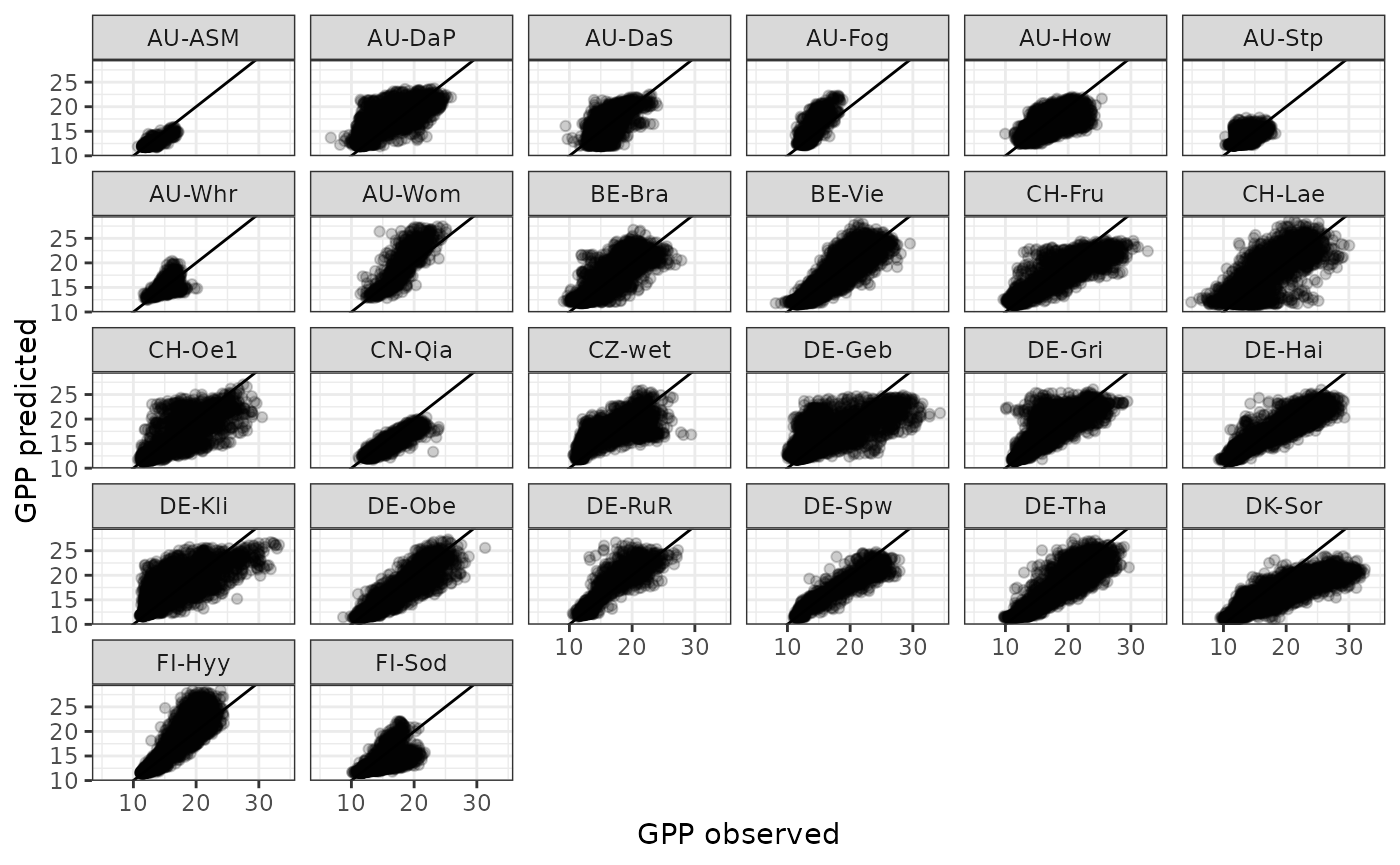
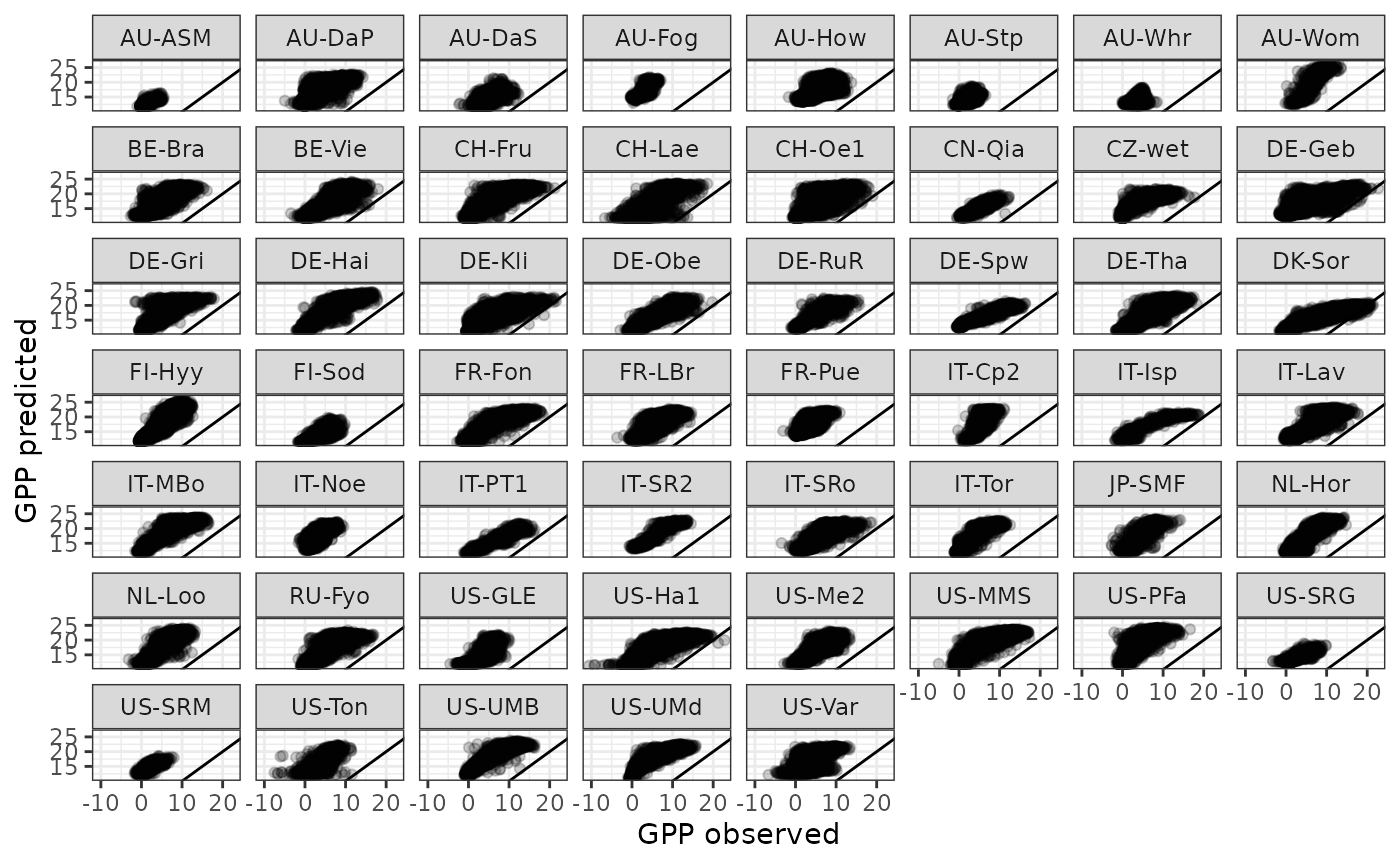
Deploying to gh-pages from @ khufkens/torching_series@e23b7008979bf010fc6eb65e037ba8ff3534601a 🚀

diff --git a/articles/01_results.html b/articles/01_results.html
@@ -95,43 +95,50 @@ Hufkens</h4>
     
 <p>Summary results / stats…</p>
 <div class="sourceCode" id="cb1"><pre class="downlit sourceCode r">
-<code class="sourceCode R"><span><span class="co"># read in the data</span></span>
+<code class="sourceCode R"><span><span class="co"># read in the modelled data</span></span>
 <span><span class="va">df</span> <span class="op">&lt;-</span> <span class="fu"><a href="https://rdrr.io/r/base/readRDS.html" class="external-link">readRDS</a></span><span class="op">(</span><span class="fu">here</span><span class="fu">::</span><span class="fu"><a href="https://here.r-lib.org//reference/here.html" class="external-link">here</a></span><span class="op">(</span><span class="st">"data/leave_site_out_output.rds"</span><span class="op">)</span><span class="op">)</span></span>
 <span></span>
-<span><span class="co"># R squared and RMSE global</span></span>
+<span><span class="co"># read in the original data</span></span>
+<span><span class="va">orig</span> <span class="op">&lt;-</span> <span class="fu"><a href="https://rdrr.io/r/base/readRDS.html" class="external-link">readRDS</a></span><span class="op">(</span><span class="fu">here</span><span class="fu">::</span><span class="fu"><a href="https://here.r-lib.org//reference/here.html" class="external-link">here</a></span><span class="op">(</span><span class="st">"data/df_imputed.rds"</span><span class="op">)</span><span class="op">)</span></span>
+<span></span>
+<span><span class="co"># join data</span></span>
+<span><span class="va">df</span> <span class="op">&lt;-</span> <span class="fu">left_join</span><span class="op">(</span><span class="va">df</span>, <span class="va">orig</span><span class="op">)</span></span></code></pre></div>
+<pre><code><span><span class="co">## Joining with `by = join_by(sitename, date)`</span></span></code></pre>
+<div class="sourceCode" id="cb3"><pre class="downlit sourceCode r">
+<code class="sourceCode R"><span><span class="co"># R squared and RMSE global</span></span>
 <span><span class="va">statistics_global</span> <span class="op">&lt;-</span> <span class="va">df</span> <span class="op">|&gt;</span></span>
 <span>  <span class="fu">summarize</span><span class="op">(</span></span>
-<span>    R2 <span class="op">=</span> <span class="fu"><a href="https://rdrr.io/r/base/summary.html" class="external-link">summary</a></span><span class="op">(</span><span class="fu"><a href="https://rdrr.io/r/stats/lm.html" class="external-link">lm</a></span><span class="op">(</span><span class="va">GPP_pred</span> <span class="op">~</span> <span class="va">GPP_obs</span><span class="op">)</span><span class="op">)</span><span class="op">$</span><span class="va">r.squared</span>,</span>
-<span>    RMSE <span class="op">=</span> <span class="fu"><a href="https://rdrr.io/r/base/MathFun.html" class="external-link">sqrt</a></span><span class="op">(</span><span class="fu"><a href="https://rdrr.io/r/base/mean.html" class="external-link">mean</a></span><span class="op">(</span><span class="op">(</span><span class="va">GPP_pred</span> <span class="op">-</span> <span class="va">GPP_obs</span><span class="op">)</span><span class="op">^</span><span class="fl">2</span><span class="op">)</span><span class="op">)</span></span>
+<span>    R2 <span class="op">=</span> <span class="fu"><a href="https://rdrr.io/r/base/summary.html" class="external-link">summary</a></span><span class="op">(</span><span class="fu"><a href="https://rdrr.io/r/stats/lm.html" class="external-link">lm</a></span><span class="op">(</span><span class="va">GPP_pred</span> <span class="op">~</span> <span class="va">GPP_NT_VUT_REF</span><span class="op">)</span><span class="op">)</span><span class="op">$</span><span class="va">r.squared</span>,</span>
+<span>    RMSE <span class="op">=</span> <span class="fu"><a href="https://rdrr.io/r/base/MathFun.html" class="external-link">sqrt</a></span><span class="op">(</span><span class="fu"><a href="https://rdrr.io/r/base/mean.html" class="external-link">mean</a></span><span class="op">(</span><span class="op">(</span><span class="va">GPP_pred</span> <span class="op">-</span> <span class="va">GPP_NT_VUT_REF</span><span class="op">)</span><span class="op">^</span><span class="fl">2</span><span class="op">)</span><span class="op">)</span></span>
 <span>  <span class="op">)</span></span>
 <span></span>
 <span><span class="fu"><a href="https://rdrr.io/r/base/print.html" class="external-link">print</a></span><span class="op">(</span><span class="va">statistics_global</span><span class="op">)</span></span></code></pre></div>
 <pre><code><span><span class="co">##          R2     RMSE</span></span>
-<span><span class="co">## 1 0.7289925 2.157175</span></span></code></pre>
-<div class="sourceCode" id="cb3"><pre class="downlit sourceCode r">
+<span><span class="co">## 1 0.7343552 11.87439</span></span></code></pre>
+<div class="sourceCode" id="cb5"><pre class="downlit sourceCode r">
 <code class="sourceCode R"><span><span class="co"># R squared and RMSE by site</span></span>
 <span><span class="va">statistics_sites</span> <span class="op">&lt;-</span> <span class="va">df</span> <span class="op">|&gt;</span></span>
 <span>  <span class="fu">group_by</span><span class="op">(</span><span class="va">sitename</span><span class="op">)</span> <span class="op">|&gt;</span></span>
 <span>  <span class="fu">summarize</span><span class="op">(</span></span>
-<span>    R2 <span class="op">=</span> <span class="fu"><a href="https://rdrr.io/r/base/summary.html" class="external-link">summary</a></span><span class="op">(</span><span class="fu"><a href="https://rdrr.io/r/stats/lm.html" class="external-link">lm</a></span><span class="op">(</span><span class="va">GPP_pred</span> <span class="op">~</span> <span class="va">GPP_obs</span><span class="op">)</span><span class="op">)</span><span class="op">$</span><span class="va">r.squared</span>,</span>
-<span>    RMSE <span class="op">=</span> <span class="fu"><a href="https://rdrr.io/r/base/MathFun.html" class="external-link">sqrt</a></span><span class="op">(</span><span class="fu"><a href="https://rdrr.io/r/base/mean.html" class="external-link">mean</a></span><span class="op">(</span><span class="op">(</span><span class="va">GPP_pred</span> <span class="op">-</span> <span class="va">GPP_obs</span><span class="op">)</span><span class="op">^</span><span class="fl">2</span><span class="op">)</span><span class="op">)</span></span>
+<span>    R2 <span class="op">=</span> <span class="fu"><a href="https://rdrr.io/r/base/summary.html" class="external-link">summary</a></span><span class="op">(</span><span class="fu"><a href="https://rdrr.io/r/stats/lm.html" class="external-link">lm</a></span><span class="op">(</span><span class="va">GPP_pred</span> <span class="op">~</span> <span class="va">GPP_NT_VUT_REF</span><span class="op">)</span><span class="op">)</span><span class="op">$</span><span class="va">r.squared</span>,</span>
+<span>    RMSE <span class="op">=</span> <span class="fu"><a href="https://rdrr.io/r/base/MathFun.html" class="external-link">sqrt</a></span><span class="op">(</span><span class="fu"><a href="https://rdrr.io/r/base/mean.html" class="external-link">mean</a></span><span class="op">(</span><span class="op">(</span><span class="va">GPP_pred</span> <span class="op">-</span> <span class="va">GPP_NT_VUT_REF</span><span class="op">)</span><span class="op">^</span><span class="fl">2</span><span class="op">)</span><span class="op">)</span></span>
 <span>  <span class="op">)</span></span>
 <span></span>
 <span><span class="fu"><a href="https://rdrr.io/r/base/print.html" class="external-link">print</a></span><span class="op">(</span><span class="va">statistics_sites</span><span class="op">)</span></span></code></pre></div>
-<pre><code><span><span class="co">## <span style="color: #949494;"># A tibble: 26 × 3</span></span></span>
-<span><span class="co">##    sitename    R2  RMSE</span></span>
-<span><span class="co">##    <span style="color: #949494; font-style: italic;">&lt;chr&gt;</span>    <span style="color: #949494; font-style: italic;">&lt;dbl&gt;</span> <span style="color: #949494; font-style: italic;">&lt;dbl&gt;</span></span></span>
-<span><span class="co">## <span style="color: #BCBCBC;"> 1</span> AU-ASM   0.737 0.634</span></span>
-<span><span class="co">## <span style="color: #BCBCBC;"> 2</span> AU-DaP   0.592 2.77 </span></span>
-<span><span class="co">## <span style="color: #BCBCBC;"> 3</span> AU-DaS   0.486 1.95 </span></span>
-<span><span class="co">## <span style="color: #BCBCBC;"> 4</span> AU-Fog   0.670 2.29 </span></span>
-<span><span class="co">## <span style="color: #BCBCBC;"> 5</span> AU-How   0.466 1.90 </span></span>
-<span><span class="co">## <span style="color: #BCBCBC;"> 6</span> AU-Stp   0.564 1.03 </span></span>
-<span><span class="co">## <span style="color: #BCBCBC;"> 7</span> AU-Whr   0.228 1.23 </span></span>
-<span><span class="co">## <span style="color: #BCBCBC;"> 8</span> AU-Wom   0.726 2.51 </span></span>
-<span><span class="co">## <span style="color: #BCBCBC;"> 9</span> BE-Bra   0.798 1.62 </span></span>
-<span><span class="co">## <span style="color: #BCBCBC;">10</span> BE-Vie   0.862 1.51 </span></span>
-<span><span class="co">## <span style="color: #949494;"># ℹ 16 more rows</span></span></span></code></pre>
+<pre><code><span><span class="co">## <span style="color: #949494;"># A tibble: 53 × 3</span></span></span>
+<span><span class="co">##    sitename     R2  RMSE</span></span>
+<span><span class="co">##    <span style="color: #949494; font-style: italic;">&lt;chr&gt;</span>     <span style="color: #949494; font-style: italic;">&lt;dbl&gt;</span> <span style="color: #949494; font-style: italic;">&lt;dbl&gt;</span></span></span>
+<span><span class="co">## <span style="color: #BCBCBC;"> 1</span> AU-ASM   0.624  11.5 </span></span>
+<span><span class="co">## <span style="color: #BCBCBC;"> 2</span> AU-DaP   0.681  12.9 </span></span>
+<span><span class="co">## <span style="color: #BCBCBC;"> 3</span> AU-DaS   0.528   9.86</span></span>
+<span><span class="co">## <span style="color: #BCBCBC;"> 4</span> AU-Fog   0.568  14.1 </span></span>
+<span><span class="co">## <span style="color: #BCBCBC;"> 5</span> AU-How   0.475  11.8 </span></span>
+<span><span class="co">## <span style="color: #BCBCBC;"> 6</span> AU-Stp   0.602  12.4 </span></span>
+<span><span class="co">## <span style="color: #BCBCBC;"> 7</span> AU-Whr   0.021<span style="text-decoration: underline;">3</span> 10.5 </span></span>
+<span><span class="co">## <span style="color: #BCBCBC;"> 8</span> AU-Wom   0.764  13.3 </span></span>
+<span><span class="co">## <span style="color: #BCBCBC;"> 9</span> BE-Bra   0.811  12.4 </span></span>
+<span><span class="co">## <span style="color: #BCBCBC;">10</span> BE-Vie   0.840  11.5 </span></span>
+<span><span class="co">## <span style="color: #949494;"># ℹ 43 more rows</span></span></span></code></pre>
 <p><img src="01_results_files/figure-html/unnamed-chunk-3-1.png" width="700"></p>
 <p><img src="01_results_files/figure-html/unnamed-chunk-4-1.png" width="700"></p>
   </div>
